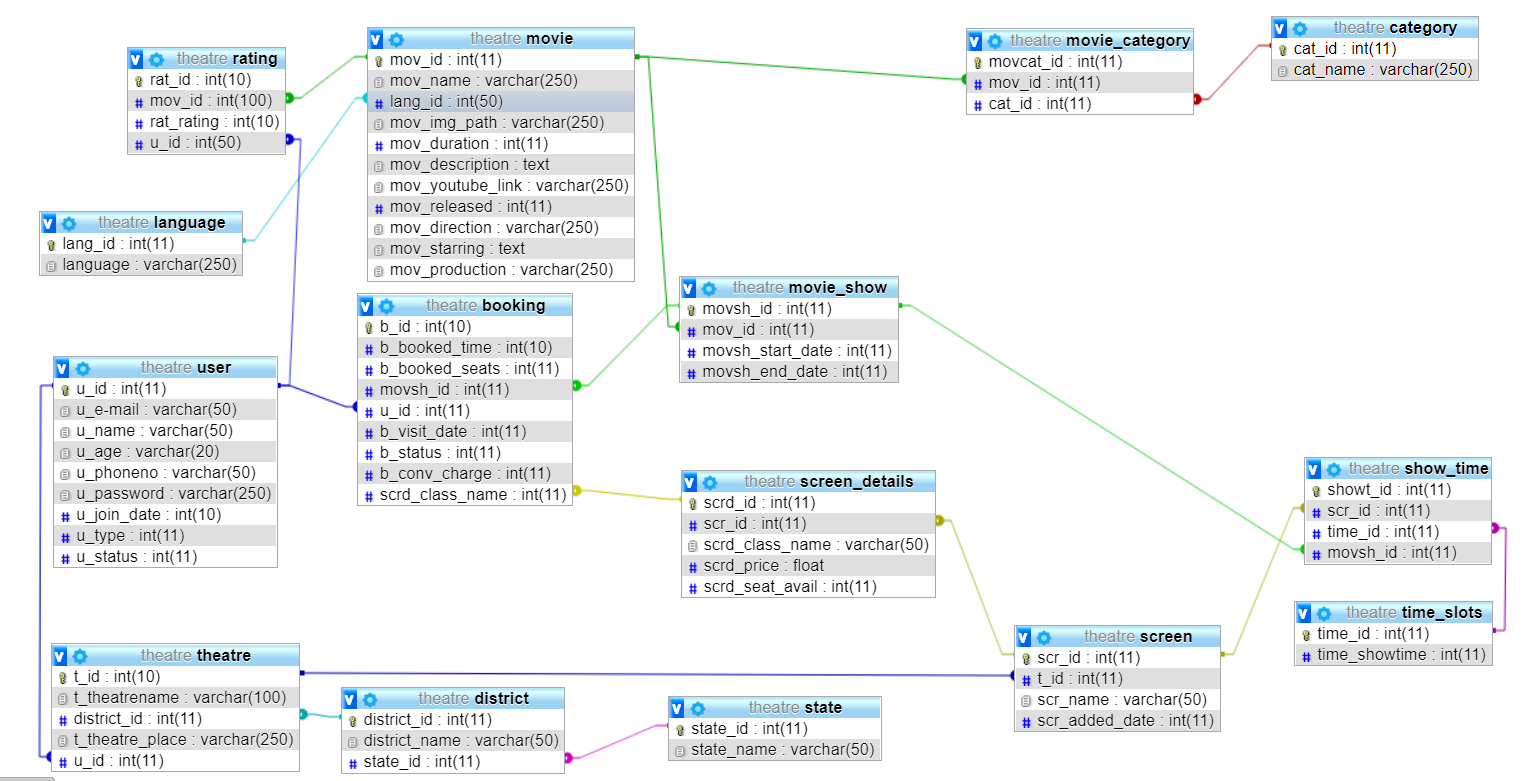
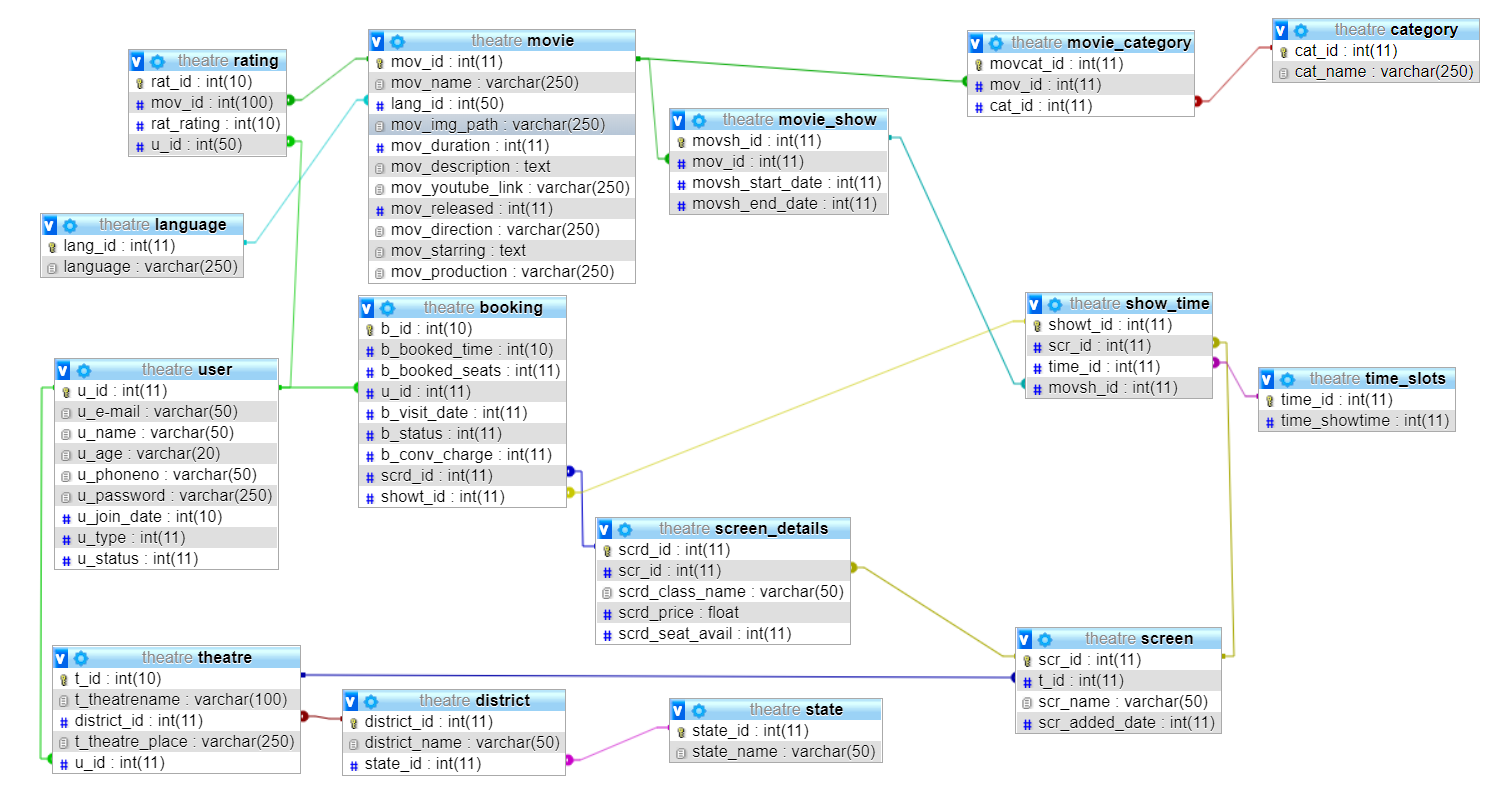
db modification

Changed region(s): [[0.0, 0.0, 1.0, 1.0], [0.7687, 0.6146, 0.7995, 0.6453]]

diff --git a/ajax/selectClass.php b/ajax/selectClass.php
@@ -16,7 +16,7 @@ $result=mysqli_query($link,$sql);
 while($row=mysqli_fetch_assoc($result))
 {
     
-    $sql1="SELECT SUM(b_booked_seats) as booked,scrd_id,movsh_id from booking WHERE scrd_id={$row['scrd_id']} and movsh_id in (SELECT movsh_id from movie_show NATURAL JOIN show_time WHERE scr_id={$screen}) and `b_visit_date`='{$date}'";
+    $sql1="SELECT SUM(b_booked_seats) as booked,scrd_id from booking WHERE scrd_id={$row['scrd_id']} and showt_id in (SELECT showt_id from show_time WHERE scr_id={$screen}) and `b_visit_date`='{$date}'";
     $results=mysqli_query($link,$sql1);
     if(mysqli_num_rows($results)>0)
     {
